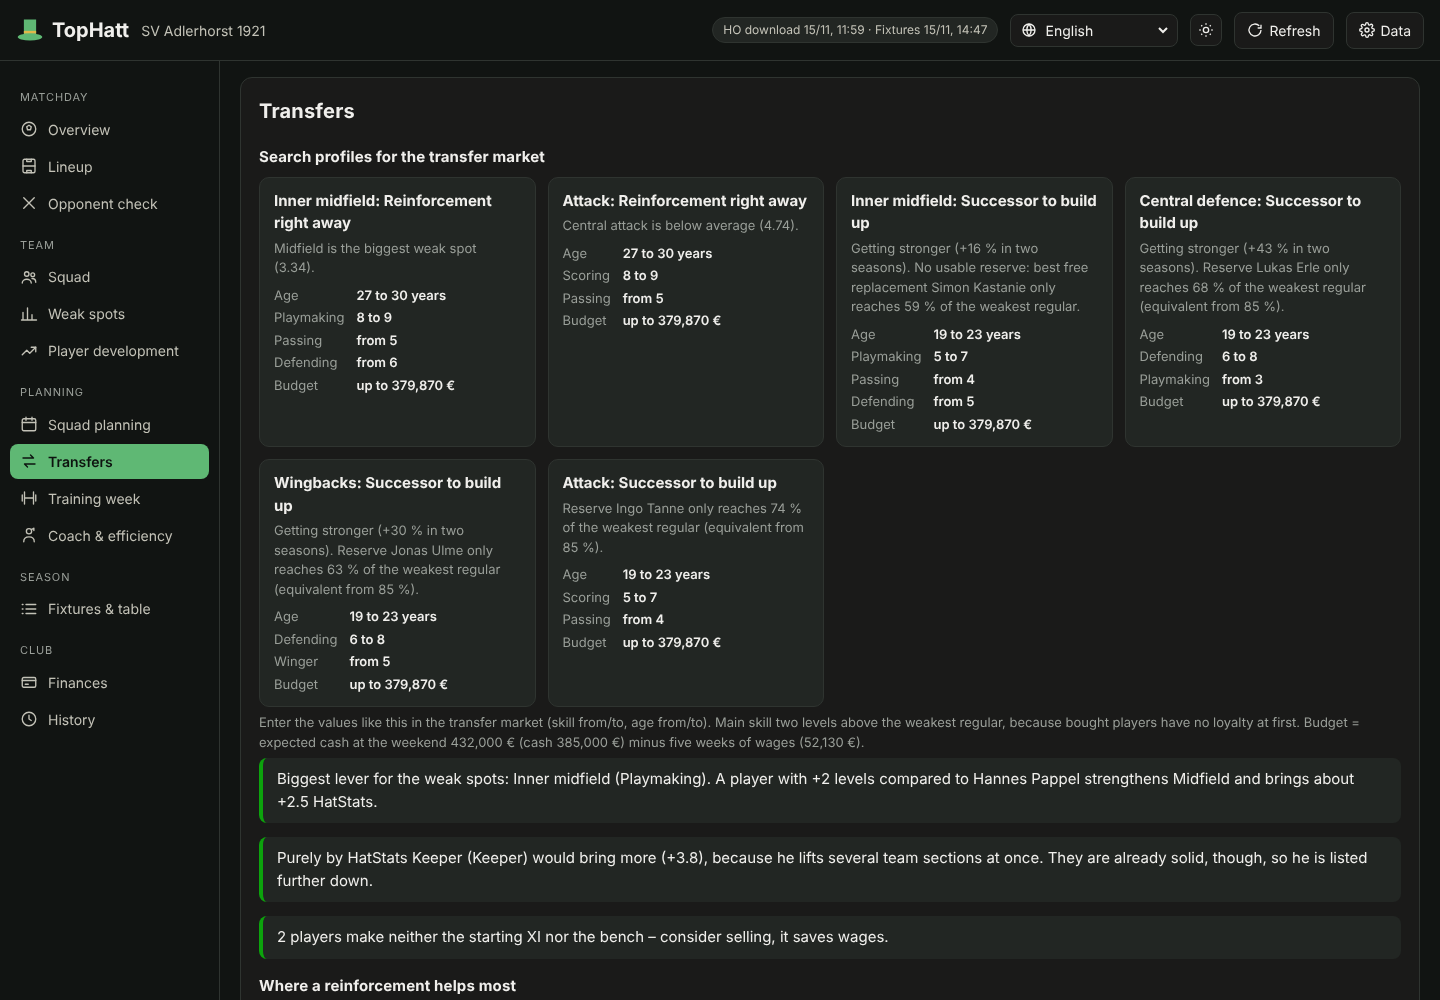
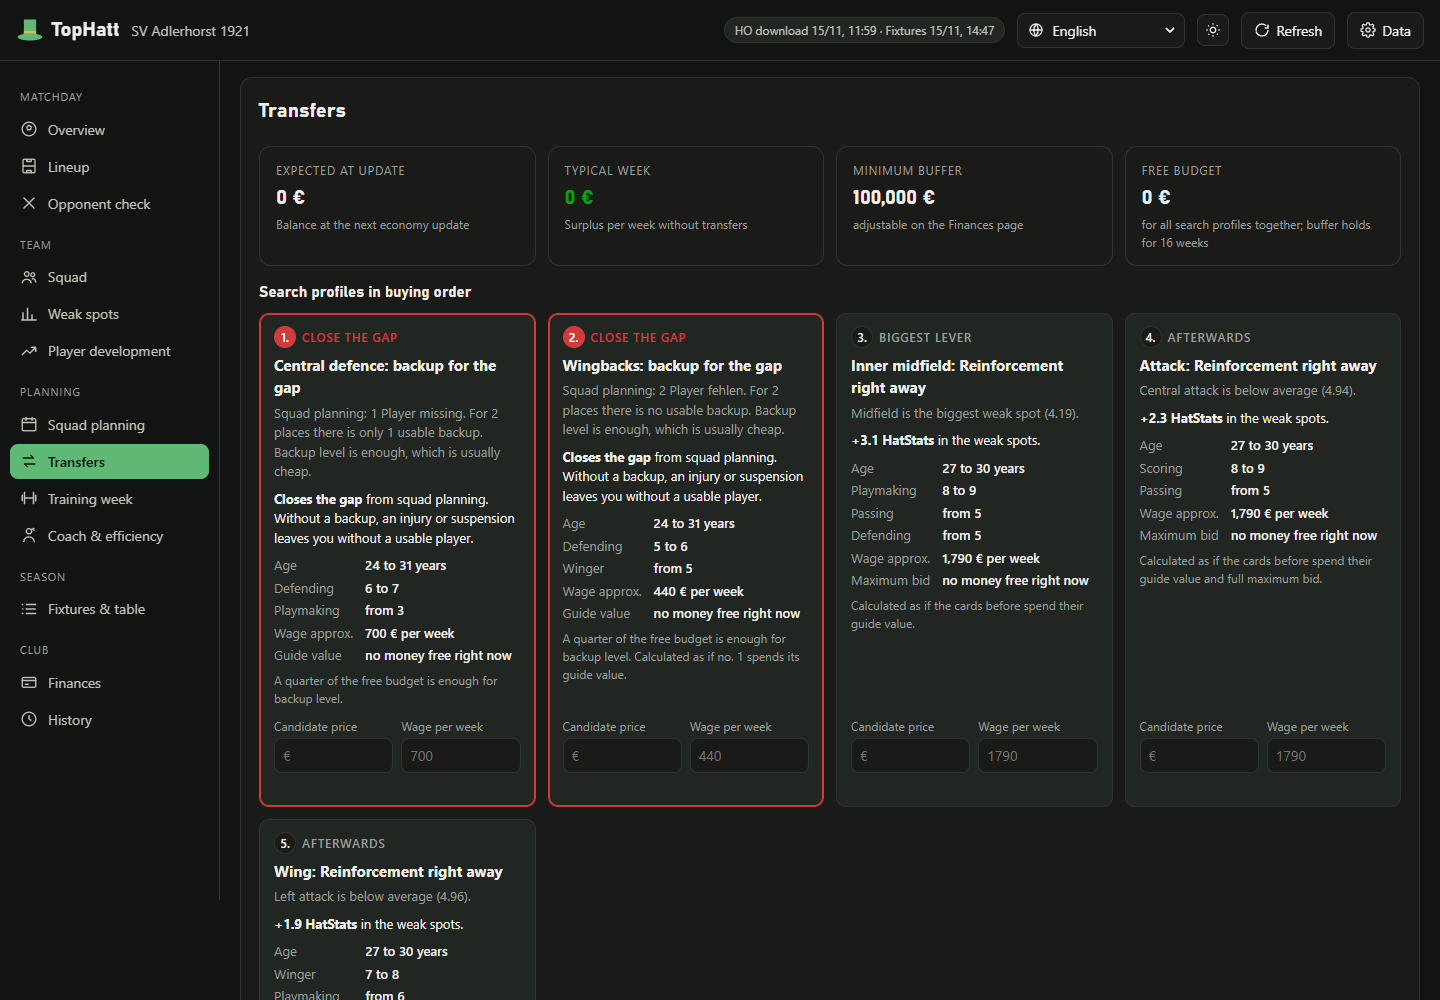
README und Screenshots für v1.1.0, fehlende Übersetzungen ergänzt
- README.md und README.de.md: Formationskacheln, „Stärkste Elf + Training“,
  „Gegen Gegner“, Kapitän/Standards-Zeile, Pressing, Gegner-Check mit eigener
  Aufstellung und „Unsere Seite“, Schwachstellen-Zeile „Deine Aufstellung“,
  Kaderplanung, Transfers, abgeschlossene Trainingswoche, Aufbau-Tabelle
- Englische README ohne deutsche Bezeichnungen in Klammern (die Screenshots
  zeigen die englische Oberfläche)
- Screenshots der Seiten und der Taktik neu (Deutsch und Englisch)
- Übersetzungen (en/es/it/pl) für die Texte von „Gegen Gegner“, Gegner-Check
  und Schwachstellen, die bisher deutsch blieben
- Version 1.1.0

diff --git a/README.md b/README.md
@@ -8,8 +8,7 @@ back as an HRF file that HO uploads to Hattrick. Everything runs locally in the 
 
 ![Lineup page with pitch, formation suggestion, player list and bench](docs/img/en/aufstellung.png)
 
-<sub>All screenshots show a made-up club with made-up players and values; the player pictures are Hattrick avatars from HO.
-The app itself is in German, so the screenshots are too; German labels are given in quotes below.</sub>
+<sub>All screenshots show a made-up club with made-up players and values; the player pictures are Hattrick avatars from HO.</sub>
 
 **Contents:** [Pages](#pages) · [Install](#install) · [Usage](#usage) · [Structure](#structure) · [Development](#development) · [License](#license)
 
@@ -20,7 +19,7 @@ The pages follow the menu on the left of the app. Every section can be expanded.
 ### Match day
 
 <details open>
-<summary><b>Overview</b> („Übersicht“): the next match at a glance</summary>
+<summary><b>Overview</b>: the next match at a glance</summary>
 <br>
 
 Opponent, kick-off, expected HatStats, formation, biggest weak spot and the upcoming matches. Below that, tiles that
@@ -30,7 +29,7 @@ lead straight to the matching page.
 </details>
 
 <details open>
-<summary><b>Lineup</b> („Aufstellung“): six steps to a finished HRF file</summary>
+<summary><b>Lineup</b>: six steps to a finished HRF file</summary>
 <br>
 
 Pitch laid out as in HO (goalkeeper at the top). The numbered buttons at the top jump to each section.
@@ -39,8 +38,17 @@ Pitch laid out as in HO (goalkeeper at the top). The numbered buttons at the top
 <summary>1 · Pitch and bench</summary>
 <br>
 
-- Formation suggestions as cards, familiar formations first; “auto lineup”, “training eleven” and “clear pitch” buttons.
-- **View/Edit** („Ansehen/Ändern“): in view mode, hovering over a player shows their card and a click pins it, so nothing
+- **Formation tiles** with HatStats, win chance against the next opponent, experience and training slots: practised
+  formations (experience 6 and up) first, then one **training formation** each against stronger, even and weaker
+  teams, “Stronger, but hardly practised” with a disorganisation warning, and the rest collapsed.
+- **Line up at the push of a button:** “Field automatically” (strongest XI by HatStats), “Strongest XI + training”
+  (the formation with the most training slots, as long as it costs at most 2 % HatStats), **“Vs. opponent”**
+  (formation, players and tactic with the best win chance against the next opponent, compared with the strongest XI),
+  “B squad”, “Not played yet” and “Clear pitch”.
+- **Captain and set pieces** as a selection row above the pitch, automatic or chosen by you.
+- Player list with “Hide already trained” and “Hide already played”. After the second match of the week, TopHatt
+  already plans the next training week.
+- **View/Edit**: in view mode, hovering over a player shows their card and a click pins it, so nothing
   moves by accident. In edit mode, drag or tap players; lines show where a player fits best.
 - Frame colour = suitability for the position, circle colour = squad group (A purple, B blue, rest grey),
   arrows = planned substitutions with minute.
@@ -57,6 +65,7 @@ colours as the lines on the pitch) and the latest match rating.
 
 Recommended tactic, team attitude and style of play from HO's match prediction against the opponent's strength, with
 win, draw and loss chances. Styles of play are only offered as far as coach type and tactical assistants allow.
+Pressing is calculated as in HO from the team's pressing strength and included in the match prediction.
 
 ![Tactics recommendation](docs/img/en/taktik.png)
 </details>
@@ -93,11 +102,13 @@ The reserves are the second row of the bench: automatically the strongest other 
 </details>
 
 <details>
-<summary><b>Opponent check</b> („Gegner-Check“): how strong is the next opponent?</summary>
+<summary><b>Opponent check</b>: how strong is the next opponent?</summary>
 <br>
 
 The opponent's strength from their latest competitive matches (HO's opponent check), possession, and a duel-by-duel
-comparison against your own eleven.
+comparison against your own eleven, plus win and draw chances with the best tactic. By default it compares the lineup
+currently on the lineup page; under “Our side” you can pick the best XI of any formation instead (with HatStats, win
+chance and experience). The legend shows what is being compared, e.g. “Us (your lineup, 4-4-2)”.
 
 ![Opponent check](docs/img/en/gegner.png)
 </details>
@@ -105,7 +116,7 @@ comparison against your own eleven.
 ### Team
 
 <details>
-<summary><b>Squad</b> („Kader“): who is available, and where?</summary>
+<summary><b>Squad</b>: who is available, and where?</summary>
 <br>
 
 Squad by team section, with a match value from position strength, stamina and injury; every player once, either
@@ -115,16 +126,18 @@ balanced, by best position or as lined up.
 </details>
 
 <details>
-<summary><b>Weak spots</b> („Schwachstellen“): where does the team lose the most?</summary>
+<summary><b>Weak spots</b>: where does the team lose the most?</summary>
 <br>
 
 Rating per team section for your own lineup, the biggest lever, and a comparison of all formations.
+If the XI on the lineup page differs from the best XI of its formation (for example after “Vs. opponent”), it gets its
+own row “Your lineup” in the table. Every change to the lineup shows up immediately.
 
 ![Weak spots](docs/img/en/schwachstellen.png)
 </details>
 
 <details>
-<summary><b>Player development</b> („Spielerentwicklung“): where is a player heading?</summary>
+<summary><b>Player development</b>: where is a player heading?</summary>
 <br>
 
 Chart with a forecast from HO's training model, age decline, and a hint when it is time to sell or find a replacement.
@@ -135,8 +148,13 @@ Chart with a forecast from HO's training model, age decline, and a hint when it 
 ### Planning
 
 <details>
-<summary><b>Squad planning</b> („Kaderplanung“): where will a gap open in one or two seasons?</summary>
+<summary><b>Squad planning</b>: where will a gap open in one or two seasons?</summary>
 <br>
+
+The whole squad against what you need (places plus one backup per place): surplus players with wages, gaps and average
+age at a glance. “What to do” lists the steps: close a gap (with a stand-in from the squad or a search profile), find
+successors for declining starters, sell surplus players. Per team section every player appears exactly once, with a role
+(starter, backup, talent, surplus) and strength today and in two seasons.
 
 ![Squad planning](docs/img/en/kaderplanung.png)
 </details>
@@ -145,22 +163,26 @@ Chart with a forecast from HO's training model, age decline, and a hint when it 
 <summary><b>Transfers</b>: which signing helps the most?</summary>
 <br>
 
-Search profiles for the transfer market in buying order, with one shared budget: the maximum bid keeps your balance above the minimum buffer for a whole season (wage and typical weekly income included). Enter the price of a real candidate to check it, tick unused players to sell, and see your past transfers from HO.
+Search profiles for the transfer market in buying order, in line with squad planning (gaps first, surplus players as
+sale candidates), with one shared budget: the maximum bid keeps your balance above the minimum buffer for a whole season (wage and typical weekly income included). Enter the price of a real candidate to check it, tick unused players to sell, and see your past transfers from HO.
 
 ![Transfers](docs/img/en/transfers.png)
 </details>
 
 <details>
-<summary><b>Training week</b> („Trainingswoche“): who plays where so that as many as possible train?</summary>
+<summary><b>Training week</b>: who plays where so that as many as possible train?</summary>
 <br>
 
 A squad and B squad, and a plan for league, cup and friendly matches by training benefit. A “Do not train” list keeps players you will sell or release off the training places. On the lineup page, “Not played yet” lines up everyone without a match this week and brings up to 3 more on as substitutes.
+
+Once both matches of the week are played, a card shows the completed week until the training update: who trained fully,
+half or not at all. Everything below it already plans the next week.
 
 ![Training week](docs/img/en/training.png)
 </details>
 
 <details>
-<summary><b>Coach & efficiency</b> („Trainer & Effizienz“): is a better coach worth it?</summary>
+<summary><b>Coach & efficiency</b>: is a better coach worth it?</summary>
 <br>
 
 Training efficiency as in Hattrick's sandbox, cost per efficiency point, the cheapest ways to more efficiency, and coach prices.
@@ -171,14 +193,14 @@ Training efficiency as in Hattrick's sandbox, cost per efficiency point, the che
 ### Season and club
 
 <details>
-<summary><b>Fixtures & table</b> („Spielplan & Tabelle“)</summary>
+<summary><b>Fixtures & table</b></summary>
 <br>
 
 ![Fixtures and table](docs/img/en/spielplan.png)
 </details>
 
 <details>
-<summary><b>Finances</b> („Finanzen“): can the club afford it?</summary>
+<summary><b>Finances</b>: can the club afford it?</summary>
 <br>
 
 Cash, weekly balance, staff, and a traffic light with a forecast of whether planned spending leads into debt.
@@ -187,7 +209,7 @@ Cash, weekly balance, staff, and a traffic light with a forecast of whether plan
 </details>
 
 <details>
-<summary><b>History</b> („Verlauf“): is the plan working out over the weeks?</summary>
+<summary><b>History</b>: is the plan working out over the weeks?</summary>
 <br>
 
 One snapshot per training week of training, staff, finances, team and squad; export and import as JSON.
@@ -208,10 +230,10 @@ its Java runtime is reused for the sync. For the app alone, without the HO datab
    for example `F:\claude\hattrick\HO\daten`.
 2. Start **`TopHatt.bat`**. It reads the HO database (read-only, from a copy), writes `tophatt-data.json` into the
    data folder and opens `dist/tophatt.html`.
-3. The first time, connect the folder in the app under “Daten” (works in Chrome and Edge). From then on TopHatt always
-   loads the latest data when opened; “Aktualisieren” (refresh) reads them again. It also works without a folder: drag
+3. The first time, connect the folder in the app under “Data” (works in Chrome and Edge). From then on TopHatt always
+   loads the latest data when opened; “Refresh” reads them again. It also works without a folder: drag
    the HRF file and `tophatt-data.json` into the window.
-4. Check the lineup and click “Für HO speichern” (save for HO). In HO, use File → Import → read HRF, then “send lineup”.
+4. Check the lineup and click “Save for HO”. In HO, use File → Import → read HRF, then “send lineup”.
 
 The paths to HO are at the top of `TopHatt.bat` and can be changed there. The sync reads player pictures from
 `img/playersAvatar` of the local HO installation; they stay on your own computer and do not belong in the repository.
@@ -228,15 +250,18 @@ The paths to HO are at the top of `TopHatt.bat` and can be changed there. The sy
 | `src/core/tactics.ts`, `matchplan.ts` | Tactic effects, match prediction and recommendation for tactic, attitude and style of play |
 | `src/core/substitutions.ts` | Substitution suggestions by stamina, training and playing time |
 | `src/core/orders.ts` | Match orders, penalty takers and bench reserves in HO's HRF format |
+| `src/core/portfolio.ts` | Training formations against stronger, even and weaker opponents |
 | `src/core/opponent.ts` | Opponent strength from their match ratings, direct duels |
+| `src/core/opponentfit.ts` | Lineup with the best win chance against the next opponent (“Vs. opponent”) |
 | `src/core/weakness.ts` | Weak spots per team section and biggest lever |
-| `src/core/squad.ts` | Squad by team section and squad planning |
+| `src/core/squad.ts`, `squadplan.ts` | Squad by team section; squad planning with roles, needs and gaps |
 | `src/core/development.ts` | Training gains and age decline (formulas from HO) |
 | `src/core/training.ts`, `trainingweek.ts` | Training slots, A/B squad and weekly plan |
 | `src/core/staff.ts` | Coach, assistants, specialists: costs and training efficiency |
 | `src/core/finance.ts` | Cash, weekly balance and forecast |
 | `src/core/history.ts` | Weekly snapshots for the history page |
 | `src/core/scouting.ts`, `advisor.ts`, `transferplan.ts` | Search profiles, transfer budget and buying order, training hints |
+| `src/i18n/translations.json` | Translations (English, Spanish, Italian, Polish) |
 | `src/ui/` | User interface; `build.mjs` bundles everything into one HTML file |
 
 ## Development

diff --git a/README.de.md b/README.de.md
@@ -38,7 +38,16 @@ Spielfeld wie in HO (Torwart oben). Oben springt man über die nummerierten Knö
 <summary>1 · Spielfeld und Bank</summary>
 <br>
 
-- Formationsvorschlag als Karten, eingespielte Formationen zuerst; „Automatisch aufstellen“, „B-Kader“, „Noch nicht gespielt“, „Feld leeren“.
+- **Formationen als Kacheln** mit HatStats, Siegchance gegen den nächsten Gegner, Erfahrung und Trainingsplätzen:
+  eingespielte Formationen (Erfahrung ab 6) zuerst, dann je eine **Trainingsformation** gegen Stärkere, Ausgeglichene
+  und Schwächere, „Stärker, aber kaum eingespielt“ mit Hinweis auf Desorganisation, der Rest eingeklappt.
+- **Aufstellen per Knopf:** „Automatisch aufstellen“ (stärkste Elf nach HatStats), „Stärkste Elf + Training“
+  (Formation mit den meisten Trainingsplätzen, solange sie höchstens 2 % HatStats kostet), **„Gegen Gegner“**
+  (Formation, Spieler und Taktik mit der besten Siegchance gegen den nächsten Gegner, mit Vergleich zur stärksten Elf),
+  „B-Kader“, „Noch nicht gespielt“ und „Feld leeren“.
+- **Kapitän und Standards** als Auswahlzeile über dem Spielfeld, „Automatisch“ oder selbst gewählt.
+- Spielerliste mit „Schon trainierte ausblenden“ und „Schon gespielte ausblenden“. Nach dem zweiten Spiel der Woche
+  plant TopHatt schon die nächste Trainingswoche.
 - **Ansehen/Ändern**: Im Ansehen-Modus zeigt ein Spieler beim Darüberfahren seine Karte, Antippen hält sie fest, nichts
   verschiebt sich versehentlich. Im Ändern-Modus Spieler ziehen oder antippen; die Linien zeigen, wo er am besten passt.
 - Rahmenfarbe = Eignung für die Position, Kreisfarbe = Kader (A lila, B blau, Rest grau), Pfeile = geplante Wechsel mit Minute.
@@ -55,6 +64,7 @@ Positionen (in denselben Farben wie die Linien auf dem Feld) und die letzte Bewe
 
 Empfehlung für Taktik, Einstellung und Ausrichtung aus der HO-Spielvorhersage gegen die Gegnerstärke, mit Sieg-,
 Remis- und Niederlagenchance. Ausrichtungen gibt es nur, soweit Trainertyp und Taktik-Assistenten sie erlauben.
+Pressing wird wie in HO aus der Pressingstärke der Elf berechnet und in der Spielvorhersage berücksichtigt.
 
 ![Taktik-Empfehlung](docs/img/taktik.png)
 </details>
@@ -94,7 +104,10 @@ schreibt eine HRF-Datei mit Aufstellung, Taktik, Kapitän, Standards, Bank, Rese
 <summary><b>Gegner-Check</b>: wie stark ist der nächste Gegner?</summary>
 <br>
 
-Stärke des Gegners aus seinen letzten Pflichtspielen (HO-Gegnercheck), Ballbesitz und Duell für Duell gegen die eigene Elf.
+Stärke des Gegners aus seinen letzten Pflichtspielen (HO-Gegnercheck), Ballbesitz und Duell für Duell gegen die eigene Elf,
+dazu Siegchance und Remis mit der besten Taktik. Verglichen wird standardmäßig die Aufstellung, die gerade auf der
+Aufstellungsseite steht; unter „Unsere Seite“ lässt sich stattdessen die beste Elf jeder Formation wählen (mit HatStats,
+Siegchance und Erfahrung). Die Legende zeigt, womit gerechnet wird, z. B. „Wir (deine Aufstellung, 4-4-2)“.
 
 ![Gegner-Check](docs/img/gegner.png)
 </details>
@@ -116,6 +129,8 @@ wahlweise ausgewogen, nach bester Position oder wie aufgestellt.
 <br>
 
 Bewertung je Mannschaftsteil für die eigene Aufstellung, der stärkste Hebel und ein Vergleich aller Formationen.
+Weicht die Elf der Aufstellungsseite von der besten Elf ihrer Formation ab (etwa nach „Gegen Gegner“), steht sie als
+eigene Zeile „Deine Aufstellung“ in der Tabelle. Jede Änderung der Aufstellung kommt sofort an.
 
 ![Schwachstellen](docs/img/schwachstellen.png)
 </details>
@@ -135,6 +150,11 @@ Graph mit Prognose aus dem HO-Trainingsmodell, Altersabbau und Hinweis, wann ein
 <summary><b>Kaderplanung</b>: wo droht in ein, zwei Saisons eine Lücke?</summary>
 <br>
 
+Der ganze Kader gegen den Bedarf (Plätze plus je Platz ein Ersatz): Überzählige mit Gehalt, Lücken und Durchschnittsalter
+auf einen Blick. „Was zu tun ist“ nennt die Schritte: Lücke schließen (mit Aushelfer aus dem Kader oder Suchprofil),
+Nachfolger für nachlassende Stammspieler, Überzählige verkaufen. Je Mannschaftsteil steht jeder Spieler genau einmal mit
+Rolle (Stammspieler, Ersatz, Talent, überzählig) und Stärke heute und in zwei Saisons.
+
 ![Kaderplanung](docs/img/kaderplanung.png)
 </details>
 
@@ -142,7 +162,8 @@ Graph mit Prognose aus dem HO-Trainingsmodell, Altersabbau und Hinweis, wann ein
 <summary><b>Transfers</b>: welche Verstärkung bringt am meisten?</summary>
 <br>
 
-Suchprofile für den Transfermarkt in Kaufreihenfolge mit einem gemeinsamen Budget: Das Höchstgebot hält den Kontostand eine ganze Saison über dem Mindest-Puffer (mit Gehalt und typischen Wocheneinnahmen). Trag den Preis eines echten Kandidaten ein, um ihn zu prüfen, hake ungenutzte Spieler zum Verkauf an und sieh deine bisherigen Transfers aus HO.
+Suchprofile für den Transfermarkt in Kaufreihenfolge, abgestimmt mit der Kaderplanung (Lücken zuerst, Überzählige als
+Verkaufskandidaten), mit einem gemeinsamen Budget: Das Höchstgebot hält den Kontostand eine ganze Saison über dem Mindest-Puffer (mit Gehalt und typischen Wocheneinnahmen). Trag den Preis eines echten Kandidaten ein, um ihn zu prüfen, hake ungenutzte Spieler zum Verkauf an und sieh deine bisherigen Transfers aus HO.
 
 ![Transfers](docs/img/transfers.png)
 </details>
@@ -152,6 +173,9 @@ Suchprofile für den Transfermarkt in Kaufreihenfolge mit einem gemeinsamen Budg
 <br>
 
 A-Kader und B-Kader, Plan für Liga-, Pokal- und Freundschaftsspiel nach Trainingsnutzen. Die Liste „Nicht trainieren“ hält Spieler, die verkauft oder entlassen werden, von den Trainingsplätzen fern. Auf der Aufstellungsseite stellt „Noch nicht gespielt“ alle auf, die diese Woche noch keinen Einsatz hatten, und wechselt bis zu 3 weitere von der Bank ein.
+
+Sind beide Spiele der Woche gespielt, zeigt eine Karte bis zum Trainingsupdate die abgeschlossene Woche: wer voll, halb
+oder gar nicht trainiert hat. Alles darunter plant dann schon die nächste Woche.
 
 ![Trainingswoche](docs/img/training.png)
 </details>
@@ -225,15 +249,18 @@ Die Pfade zu HO stehen oben in `TopHatt.bat` und lassen sich dort anpassen. Spie
 | `src/core/tactics.ts`, `matchplan.ts` | Taktik-Wirkung, Spielvorhersage und Empfehlung für Taktik, Einstellung, Ausrichtung |
 | `src/core/substitutions.ts` | Auswechslungs-Vorschläge nach Kondition, Training und Einsatzzeit |
 | `src/core/orders.ts` | Anweisungen, Elfmeterschützen und Reserve-Reihe im HRF-Format von HO |
+| `src/core/portfolio.ts` | Trainingsformationen gegen Stärkere, Ausgeglichene und Schwächere |
 | `src/core/opponent.ts` | Gegnerstärke aus den Spielbewertungen des Gegners, direkte Duelle |
+| `src/core/opponentfit.ts` | Aufstellung mit der besten Siegchance gegen den nächsten Gegner („Gegen Gegner“) |
 | `src/core/weakness.ts` | Schwachstellen je Mannschaftsteil und stärkster Hebel |
-| `src/core/squad.ts` | Kader nach Mannschaftsteilen und Kaderplanung |
+| `src/core/squad.ts`, `squadplan.ts` | Kader nach Mannschaftsteilen; Kaderplanung mit Rollen, Bedarf und Lücken |
 | `src/core/development.ts` | Trainingszuwachs und Altersabbau (Formeln aus HO) |
 | `src/core/training.ts`, `trainingweek.ts` | Trainingsplätze, A-/B-Kader und Wochenplan |
 | `src/core/staff.ts` | Trainer, Assistenten, Spezialisten: Kosten und Trainingseffizienz |
 | `src/core/finance.ts` | Kontostand, Wochenbilanz und Prognose |
 | `src/core/history.ts` | Wochen-Schnappschüsse für den Verlauf |
 | `src/core/scouting.ts`, `advisor.ts`, `transferplan.ts` | Suchprofile, Transferbudget und Kaufreihenfolge, Trainingshinweise |
+| `src/i18n/translations.json` | Übersetzungen (Englisch, Spanisch, Italienisch, Polnisch) |
 | `src/ui/` | Oberfläche; `build.mjs` packt alles in eine HTML-Datei |
 
 ## Entwickeln
